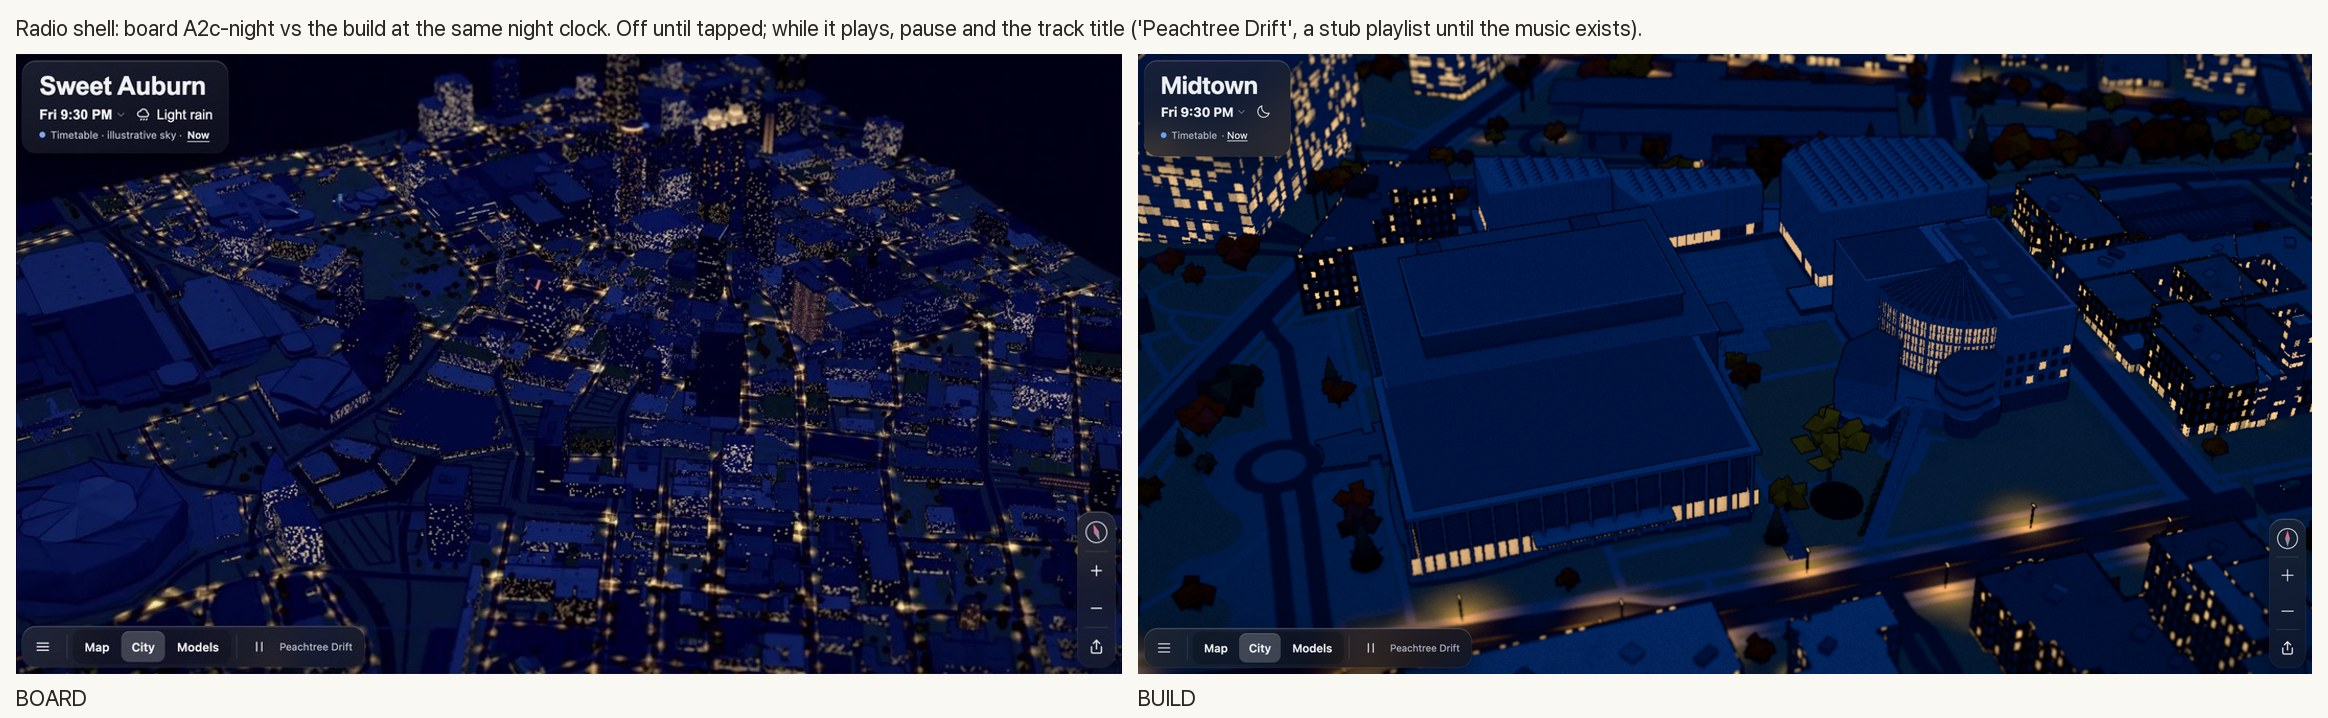
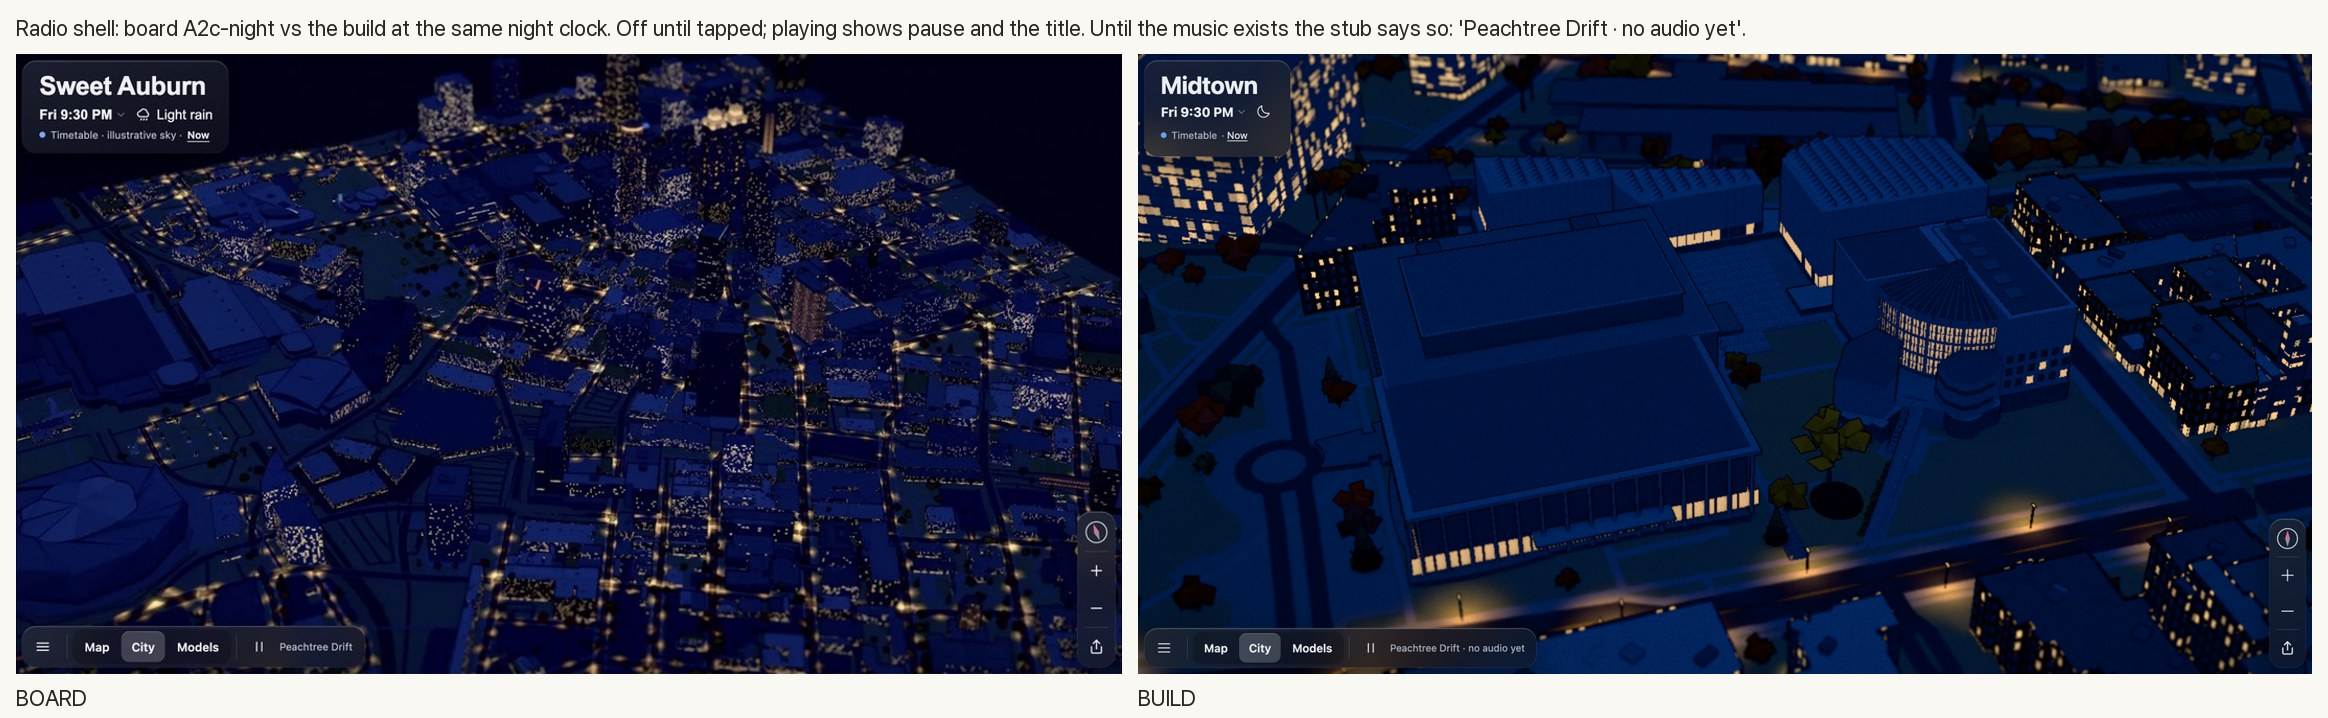
Fix radio review findings: honest stub label, single load, AbortError, load failure, width, tests; log

Changed region(s): [[0.3093, 0.0306, 0.7423, 0.0613], [0.6186, 0.8886, 0.6804, 0.9499]]

diff --git a/web/src/ui/next/shell.ts b/web/src/ui/next/shell.ts
@@ -237,21 +237,33 @@ export function createShellNext(o: ShellOptions): ShellApi {
   const NOTE = SVG('<path d="M9 18V6l11-2v12"/><circle cx="6" cy="18" r="3"/><circle cx="17" cy="16" r="3"/>');
   const PAUSE = SVG('<path d="M8 5v14M16 5v14"/>');
   const radioBtn = el('button', { type: 'button', class: 'a2-ib a2-radio', 'aria-label': 'Play radio', 'aria-pressed': 'false' }, NOTE);
-  const radioTitle = el('span', { class: 'a2-radio-title', hidden: '', 'aria-live': 'polite' });
+  const radioTitle = el('span', { class: 'a2-radio-title', hidden: '' });
   let radio: import('./radio').Radio | null = null;
+  let radioLoading: Promise<import('./radio').Radio> | null = null;
   const showRadio = () => {
     if (!radio) return;
+    // Until the music exists the playlist is a stub: say so rather than pose as playing audio.
+    const words = radio.track.src ? radio.track.title : `${radio.track.title} · no audio yet`;
     radioBtn.innerHTML = radio.playing ? PAUSE : NOTE;
     radioBtn.setAttribute('aria-pressed', String(radio.playing));
-    radioBtn.setAttribute('aria-label', radio.playing ? `Pause radio: ${radio.track.title}` : 'Play radio');
-    radioTitle.textContent = radio.track.title;
+    radioBtn.setAttribute('aria-label', radio.playing ? `Pause radio: ${words}` : 'Play radio');
+    radioTitle.textContent = words;
+    radioTitle.title = words;
     radioTitle.hidden = !radio.playing;
   };
   radioBtn.addEventListener('click', async () => {
-    if (!radio) {
-      const { createRadio } = await import('./radio');
-      radio ??= createRadio();
-      radio.onChange(showRadio);
+    try {
+      // One load, however many taps land while it's in flight.
+      radioLoading ??= import('./radio').then(({ createRadio }) => {
+        const r = createRadio();
+        r.onChange(showRadio);
+        return r;
+      });
+      radio = await radioLoading;
+    } catch {
+      radioLoading = null; // try again on the next tap (a stale chunk after a deploy, say)
+      showNotice('The radio couldn’t load. Try again.');
+      return;
     }
     radio.toggle();
   });

diff --git a/web/src/ui/next/radio.test.ts b/web/src/ui/next/radio.test.ts
@@ -4,7 +4,10 @@ import { PLAYLIST, createRadio } from './radio';
 class FakeAudio { src = ''; preload = ''; addEventListener() {} pause() {} play() { return Promise.resolve(); } }
 
 describe('radio', () => {
-  afterEach(() => vi.useRealTimers());
+  afterEach(() => {
+    vi.useRealTimers();
+    vi.unstubAllGlobals();
+  });
   it('stays off until toggled, then advances through the stub playlist', () => {
     vi.useFakeTimers();
     vi.stubGlobal('Audio', FakeAudio);
@@ -17,6 +20,21 @@ describe('radio', () => {
     expect(r.track.title).toBe('B');
     r.toggle();
     expect(r.playing).toBe(false);
+  });
+  it('resumes a stub track where it paused', () => {
+    vi.useFakeTimers({ toFake: ['setTimeout', 'clearTimeout', 'performance'] });
+    vi.stubGlobal('Audio', FakeAudio);
+    const r = createRadio([{ title: 'A', durationS: 2 }, { title: 'B', durationS: 2 }]);
+    r.toggle();
+    vi.advanceTimersByTime(1000);
+    r.toggle(); // pause at 1 s
+    vi.advanceTimersByTime(5000);
+    expect(r.track.title).toBe('A');
+    r.toggle();
+    vi.advanceTimersByTime(900);
+    expect(r.track.title).toBe('A');
+    vi.advanceTimersByTime(200);
+    expect(r.track.title).toBe('B');
   });
   it('plans about ten tracks and half an hour', () => {
     const total = PLAYLIST.reduce((s, t) => s + t.durationS, 0);

diff --git a/web/src/ui/next/radio.ts b/web/src/ui/next/radio.ts
@@ -41,7 +41,8 @@ export function createRadio(list: Track[] = PLAYLIST): Radio {
   const changed = () => {
     listeners.forEach((fn) => fn());
     const ms = (navigator as Navigator & { mediaSession?: MediaSession }).mediaSession;
-    if (ms && typeof MediaMetadata !== 'undefined') {
+    // The OS only hears about real audio; a silent stub never claims to be playing there.
+    if (ms && typeof MediaMetadata !== 'undefined' && list[i].src) {
       ms.metadata = new MediaMetadata({ title: list[i].title, artist: 'Sim Atlanta radio' });
       ms.playbackState = playing ? 'playing' : 'paused';
     }
@@ -58,7 +59,9 @@ export function createRadio(list: Track[] = PLAYLIST): Radio {
     clearTimeout(timer);
     if (t.src) {
       if (!audio.src.endsWith(t.src)) audio.src = t.src;
-      void audio.play().catch(() => {
+      void audio.play().catch((e: unknown) => {
+        // A pause or track change aborts the pending play: that's not a failure.
+        if (e instanceof DOMException && e.name === 'AbortError') return;
         playing = false;
         changed();
       });

diff --git a/web/src/ui/next/next.css b/web/src/ui/next/next.css
@@ -520,6 +520,9 @@ body.a2-in-models .a2-panel:has(#card.a2-shown) { display: none !important; }
 .a2-radio { width: 40px; height: 40px; }
 .a2-radio svg { width: 18px; height: 18px; }
 .a2-radio-title { padding: 0 10px 0 2px; font-size: 12px; color: var(--a2-ink2); white-space: nowrap; }
+/* Below desktop the title would crowd the camera column (and an ellipsis could cut 'no audio yet'):
+   the button's label carries it instead, as on phones. */
+@media (max-width: 780px) { .a2-radio-title { display: none !important; } }
 @media (max-width: 600px) {
   .a2-radio { width: 44px; height: 44px; }
   .a2-radio-title { display: none; }

diff --git a/docs/build-log.md b/docs/build-log.md
@@ -2485,3 +2485,6 @@ Sam's review of the S70 called the first pass a bright royal blue with blocky st
 
 City had drawn the Federal Reserve Bank's block at Peachtree and 10th in the generic palette, which landed on red brick: a warehouse where a marble temple of money stands. It is now white ashlar marble, stepping back in tiers to a flat crown, with a two-storey loggia on Peachtree and the salvaged Corinthian columns of the old Fed standing free in the forecourt. [Before and after](log/ui/midtown-skyline/fed-compare-day.jpg)
 
+### 2026-11-23 — A2c, step 8: a radio with nothing on it yet
+
+The app bar under `?ui=next` now ends with a note icon, as on the approved night board. It stays off until tapped, because browsers block autoplay. While playing, it shows pause and the track title. The music doesn't exist yet: the plan is about 10 calm, original SimCity-style tracks, around 30 minutes in all. So the radio runs on a stub playlist of 10 titles totalling 31.7 minutes, and each entry without an audio file advances silently on its own length, keeping its place across a pause. Review's sharpest point was about honesty, not code. A silent player that showed a pause icon and "Peachtree Drift" was claiming music that wasn't there. The stub now reads "Peachtree Drift · no audio yet" and never tells the phone's Media Session it is playing. Adding a track later is one `src` field per entry, a static file with no server work. It needs only a web rebuild. [Board vs build](log/ui/a2c/step8-radio.jpg)
